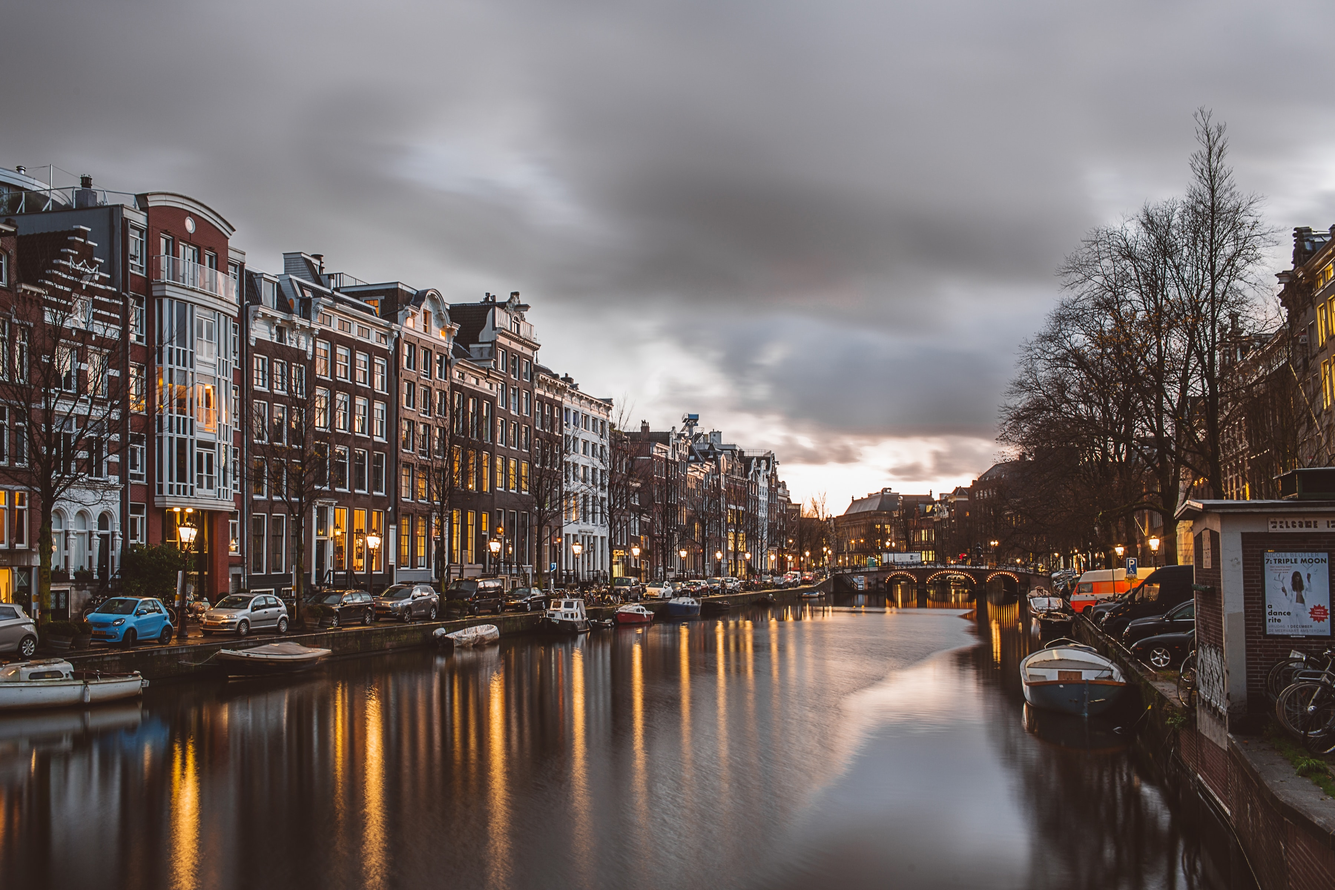
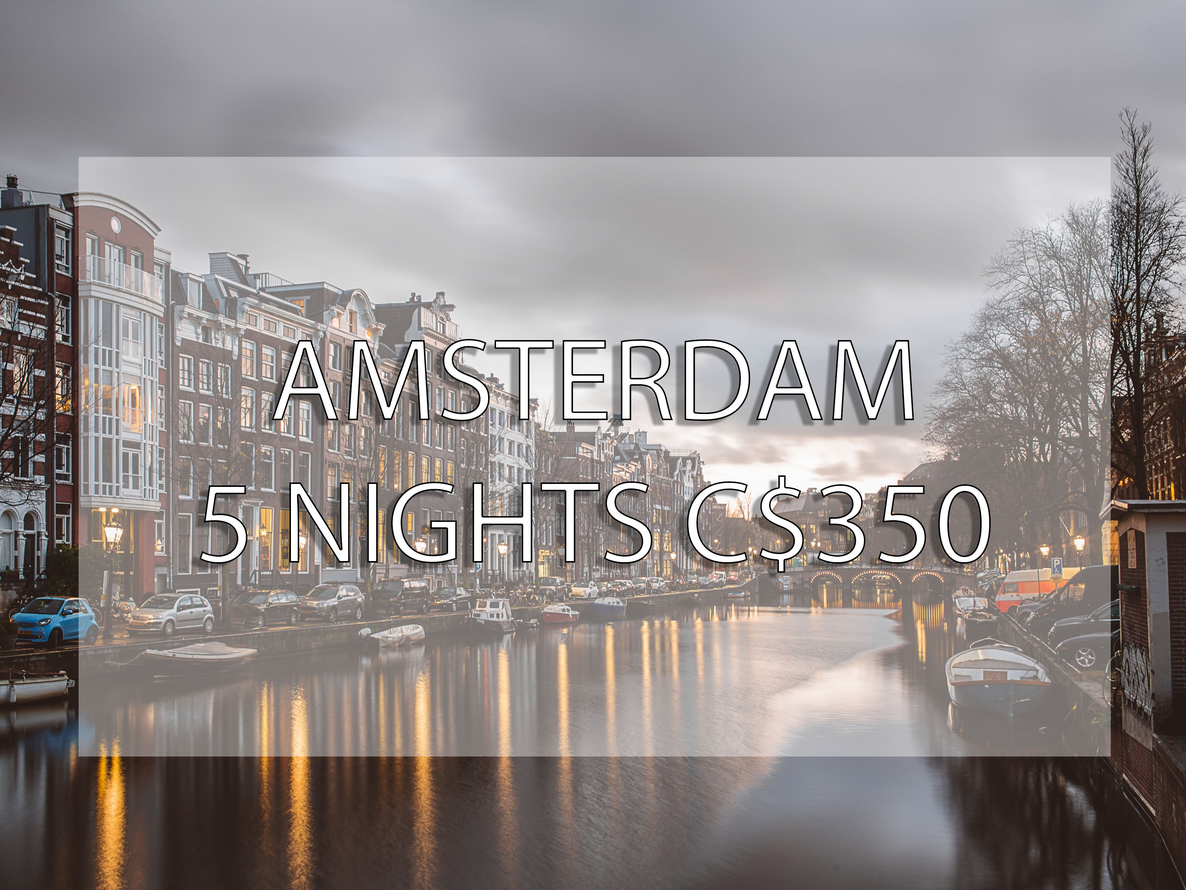
Images placeholders replace.

diff --git a/index.html b/index.html
@@ -61,10 +61,10 @@
           <!-- Section Offers-->
           <h2>Today's Top Deals...</h2>
           <div class="grid-container boxes">            
-            <div class="grid-item box"><a href="#"><img class="flex-img" src="img/vancouver-skyline.jpg" alt=""></a></div>
-            <div class="grid-item box"><a href="#"><img class="flex-img" src="img/vancouver-skyline.jpg" alt=""></a></div>
-            <div class="grid-item box"><a href="#"><img class="flex-img" src="img/vancouver-skyline.jpg" alt=""></a></div>
-            <div class="grid-item box"><a href="#"><img class="flex-img" src="img/vancouver-skyline.jpg" alt=""></a></div>
+            <div class="grid-item box"><a href="#"><img class="flex-img" src="img/las-vegas.jpg" alt="Las Vegas 35% OFF"/></a></div>
+            <div class="grid-item box"><a href="#"><img class="flex-img" src="img/tokyo.jpg" alt="Tokyo 800CAD"></a></div>
+            <div class="grid-item box"><a href="#"><img class="flex-img" src="img/amsterdam.jpg" alt="Amsterdam 5 nights C$350"></a></div>
+            <div class="grid-item box"><a href="#"><img class="flex-img" src="img/cancun.jpg" alt="Cancun All Inclusive 20% OFF"></a></div>
           </div>
         </section>
         <section>
@@ -73,7 +73,7 @@
           <div class="grid-container boxes">
             <div class="grid-item box"> 
               <a href="#">             
-              <img class ="flex-img" src="img/hotel-1-nyc.jpg" alt="">             
+              <img class ="flex-img" src="img/hotel-1-nyc.jpg" alt="Hotel room in NYC">             
               <h3 class="box-header">New York</h3>
               <p>Sheraton New York Times Square Hotel.</p>
               <p class="price">C$900</p>
@@ -82,7 +82,7 @@
             </div>
             <div class="grid-item box"> 
               <a href="#">             
-              <img class ="flex-img" src="img/hotel-1-nyc.jpg" alt="">             
+              <img class ="flex-img" src="img/hotel2.jpg" alt="Hotel room in NYC option 2">             
               <h3 class="box-header">New York</h3>
               <p>Sheraton New York Times Square Hotel.</p>
               <p class="price">C$900</p>
@@ -91,7 +91,7 @@
             </div>
             <div class="grid-item box"> 
               <a href="#">             
-              <img class ="flex-img" src="img/hotel-1-nyc.jpg" alt="">             
+              <img class ="flex-img" src="img/hotel3.jpg" alt="Hotel room in NYC option 3">             
               <h3 class="box-header">New York</h3>
               <p>Sheraton New York Times Square Hotel.</p>
               <p class="price">C$900</p>
@@ -100,7 +100,7 @@
             </div>
             <div class="grid-item box"> 
               <a href="#">             
-              <img class ="flex-img" src="img/hotel-1-nyc.jpg" alt="">             
+              <img class ="flex-img" src="img/hotel4.jpg" alt="Hotel room in NYC option 4">             
               <h3 class="box-header">New York</h3>
               <p>Sheraton New York Times Square Hotel.</p>
               <p class="price">C$900</p>
@@ -114,7 +114,7 @@
           <div class="grid-container boxes">
             <div class="grid-item box"> 
               <a href="#">             
-              <img class ="flex-img" src="img/hotel-1-nyc.jpg" alt="">             
+              <img class ="flex-img" src="img/compact-car.jpg" alt="Compact Car">             
               <h3 class="box-header">New York</h3>
               <p>Sheraton New York Times Square Hotel.</p>
               <p class="price">C$900</p>
@@ -123,7 +123,7 @@
             </div>
             <div class="grid-item box"> 
               <a href="#">             
-              <img class ="flex-img" src="img/hotel-1-nyc.jpg" alt="">             
+              <img class ="flex-img" src="img/suv-car.jpg" alt="SUV Model">             
               <h3 class="box-header">New York</h3>
               <p>Sheraton New York Times Square Hotel.</p>
               <p class="price">C$900</p>
@@ -132,7 +132,7 @@
             </div>
             <div class="grid-item box"> 
               <a href="#">             
-              <img class ="flex-img" src="img/hotel-1-nyc.jpg" alt="">             
+              <img class ="flex-img" src="img/premium-car.jpg" alt="Premium Car">             
               <h3 class="box-header">New York</h3>
               <p>Sheraton New York Times Square Hotel.</p>
               <p class="price">C$900</p>
@@ -141,7 +141,7 @@
             </div>
             <div class="grid-item box"> 
               <a href="#">             
-              <img class ="flex-img" src="img/hotel-1-nyc.jpg" alt="">             
+              <img class ="flex-img" src="img/full-car.jpg" alt="Full Car">             
               <h3 class="box-header">New York</h3>
               <p>Sheraton New York Times Square Hotel.</p>
               <p class="price">C$900</p>

diff --git a/css/default.css b/css/default.css
@@ -178,6 +178,7 @@ article {
   max-width: 100%;
   border: 0.25em;
   padding: 0.25em;
+  position: relative;
   /* max-height: 100%; */
 }
 
@@ -327,7 +328,6 @@ div.flex-container {
   max-height: 2em;
   /* border-top-left-radius: 0.5em; */
 }
-
 
 
 @media screen and (min-width: 40em) {    /* media-query 40em*/
